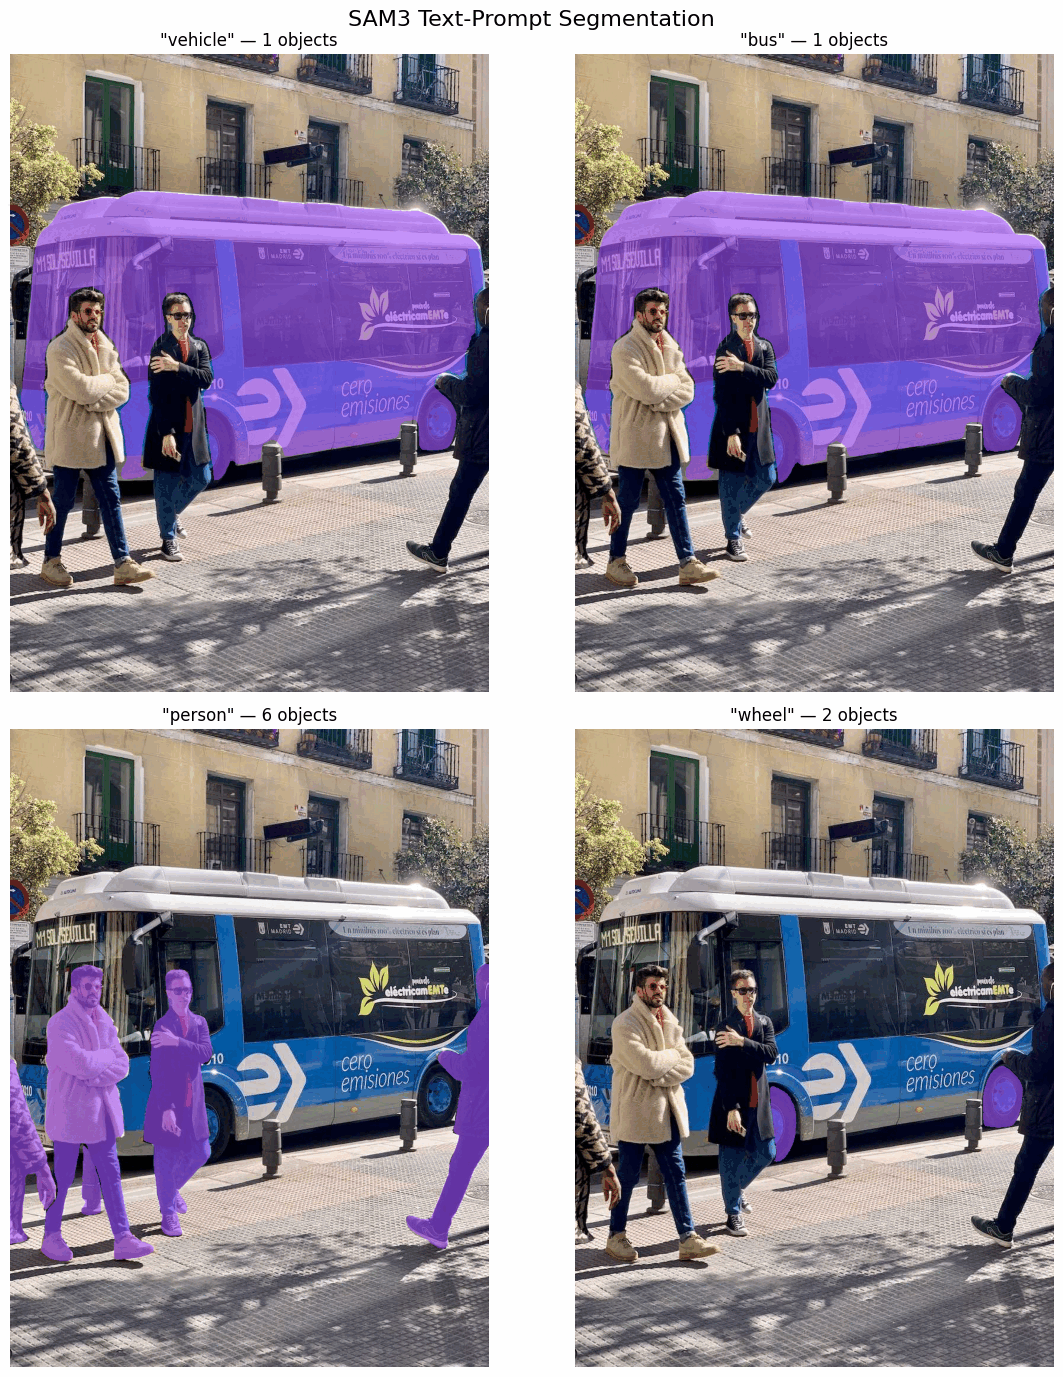
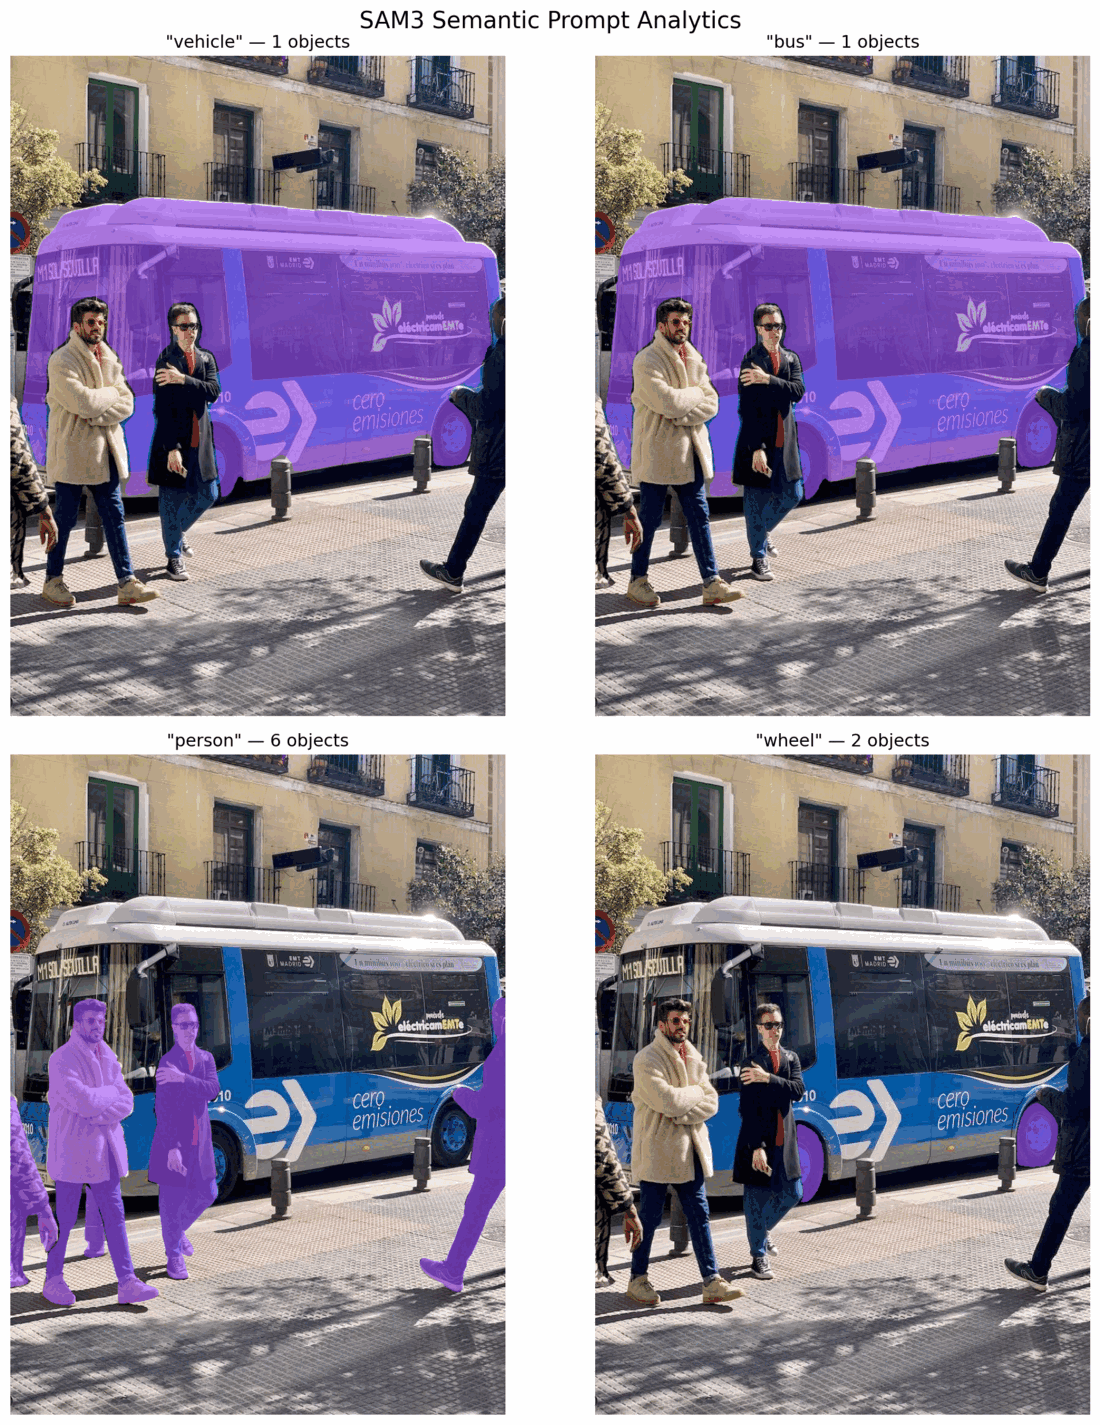
Finalize Project 09 validated runtime artifacts

diff --git a/05-projects/09-SAM3-Semantic-Prompt-Analytics/docs/RESULTS.md b/05-projects/09-SAM3-Semantic-Prompt-Analytics/docs/RESULTS.md
@@ -1,8 +1,8 @@
 # Project 09 Results
 
-## Validated Execution
+## Validated Standalone Execution
 
-The Session 08 notebook successfully processed `bus.jpg` with four semantic prompts.
+The complete Project 09 pipeline successfully processed `bus.jpg` in Google Colab using a Tesla T4 GPU and four semantic prompts.
 
 | Prompt | Objects detected |
 |---|---:|
@@ -34,4 +34,28 @@ results/csv/bus_detections.csv
 results/csv/bus_prompt_summary.csv
 ```
 
-The new standalone pipeline passed syntax validation. A complete standalone Colab rerun remains required before marking the pipeline itself runtime-validated.
+## Final Artifact Validation
+
+Original Colab artifacts before repository image optimization:
+
+```text
+data/output/bus_filtered_person.png       1,689,776 bytes ✅
+data/output/bus_prompt_comparison.png     3,654,198 bytes ✅
+results/json/bus_semantic_analysis.json       2,922 bytes ✅
+results/csv/bus_detections.csv                  667 bytes ✅
+results/csv/bus_prompt_summary.csv               116 bytes ✅
+```
+
+The JSON report contains 10 object records. The detection CSV contains 10 rows, and the prompt-summary CSV contains four rows.
+
+## Runtime Notes
+
+Ultralytics automatically adjusted the inference size from `640` to `644` to satisfy the model stride. It also displayed a deprecation warning for `half`; neither warning interrupted execution.
+
+```text
+Images processed: 1
+Object records:   10
+Runtime errors:    0
+```
+
+**Status: COMPLETE — standalone pipeline validated successfully.**

diff --git a/05-projects/09-SAM3-Semantic-Prompt-Analytics/README.md b/05-projects/09-SAM3-Semantic-Prompt-Analytics/README.md
@@ -179,9 +179,24 @@ Session 08 introduced direct text-prompt segmentation, prompt specificity, confi
 
 - Project structure: complete
 - Source syntax validation: complete
-- Notebook-derived results: preserved
-- Input and visual evidence: preserved
-- JSON and CSV evidence: preserved from validated notebook values
-- Full standalone Colab rerun: pending
+- Full standalone Google Colab execution: complete
+- T4 GPU inference: complete
+- Four semantic prompts processed: complete
+- Ten object records generated: complete
+- Two visual outputs verified: complete
+- JSON export verified: complete
+- Detection CSV verified: complete
+- Prompt-summary CSV verified: complete
 
-The repository distinguishes between verified notebook evidence and the future standalone pipeline rerun; it does not invent unexecuted performance results.
+Final standalone results:
+
+```text
+Images processed:          1
+Prompts processed:         4
+Object records generated: 10
+Visual outputs:            2
+JSON reports:              1
+CSV reports:               2
+```
+
+**Status: COMPLETE — validated successfully in Google Colab.**

diff --git a/05-projects/09-SAM3-Semantic-Prompt-Analytics/data/output/README.md b/05-projects/09-SAM3-Semantic-Prompt-Analytics/data/output/README.md
@@ -3,4 +3,13 @@
 - `bus_filtered_person.png` — five reliable person masks with confidence labels
 - `bus_prompt_comparison.png` — comparison of vehicle, bus, person, and wheel prompts
 
-These images are preserved from the successfully executed Session 08 notebook and provide visual evidence for Project 09’s intended pipeline behavior.
+These images were generated directly by the successfully executed Project 09 standalone pipeline in Google Colab.
+
+Original validated Colab file sizes before repository optimization:
+
+```text
+bus_filtered_person.png     1,689,776 bytes
+bus_prompt_comparison.png   3,654,198 bytes
+```
+
+The repository copies preserve the same visual results using palette optimization; the comparison image is also resized for practical GitHub rendering.

diff --git a/05-projects/09-SAM3-Semantic-Prompt-Analytics/docs/LIMITATIONS.md b/05-projects/09-SAM3-Semantic-Prompt-Analytics/docs/LIMITATIONS.md
@@ -8,6 +8,6 @@
 - Prompt wording can change the number and quality of returned masks.
 - The SAM 3 checkpoint is external and must be available in Google Drive.
 - GPU inference is recommended.
-- The standalone project pipeline has passed syntax validation but has not yet been rerun end to end as a separate script.
+- Ultralytics currently warns that the `half` option is deprecated and recommends its newer quantization configuration.
 
-These limitations are documented explicitly so notebook validation is not confused with standalone pipeline validation.
+The standalone pipeline has now been validated end to end. These remaining limitations describe scope and future compatibility rather than incomplete execution.

diff --git a/05-projects/09-SAM3-Semantic-Prompt-Analytics/results/README.md b/05-projects/09-SAM3-Semantic-Prompt-Analytics/results/README.md
@@ -1,6 +1,6 @@
 # Results
 
-This directory preserves structured evidence from the validated Session 08 execution used to design Project 09.
+This directory contains structured evidence generated by the validated standalone Project 09 execution.
 
 ```text
 results/
@@ -11,4 +11,4 @@ results/
 
 JSON provides a hierarchical report. CSV provides prompt-level and detection-level tables.
 
-Only measured values are included. Detailed object metrics are limited to the `person` prompt because those were the values printed and verified during execution.
+The final JSON contains 10 object records across four prompts. The detection CSV contains 10 rows, and the prompt-summary CSV contains four rows.

diff --git a/05-projects/09-SAM3-Semantic-Prompt-Analytics/results/csv/README.md b/05-projects/09-SAM3-Semantic-Prompt-Analytics/results/csv/README.md
@@ -1,6 +1,11 @@
 # CSV Results
 
 - `bus_prompt_summary.csv` records verified object counts by prompt.
-- `bus_detections.csv` records verified confidence, mask area, and reliability for six person detections.
+- `bus_detections.csv` records confidence, mask area, coordinates, and reliability for all 10 detections.
 
-Blank reliability values in the prompt summary mean that per-object filtering measurements were not recorded for that prompt during the validated notebook execution.
+Validated row counts:
+
+```text
+bus_detections.csv       10 rows
+bus_prompt_summary.csv    4 rows
+```

diff --git a/05-projects/09-SAM3-Semantic-Prompt-Analytics/results/json/README.md b/05-projects/09-SAM3-Semantic-Prompt-Analytics/results/json/README.md
@@ -4,8 +4,7 @@
 
 - Pipeline thresholds
 - Counts for vehicle, bus, person, and wheel
-- Six measured person confidence scores
-- Six measured person mask areas
-- Reliability decisions for the person masks
+- Ten object records with confidence, mask area, coordinates, and reliability
+- Reliability counts for all four prompts
 
-No unmeasured coordinates or confidence values are fabricated.
+The file was generated directly by the standalone pipeline and validated successfully.
